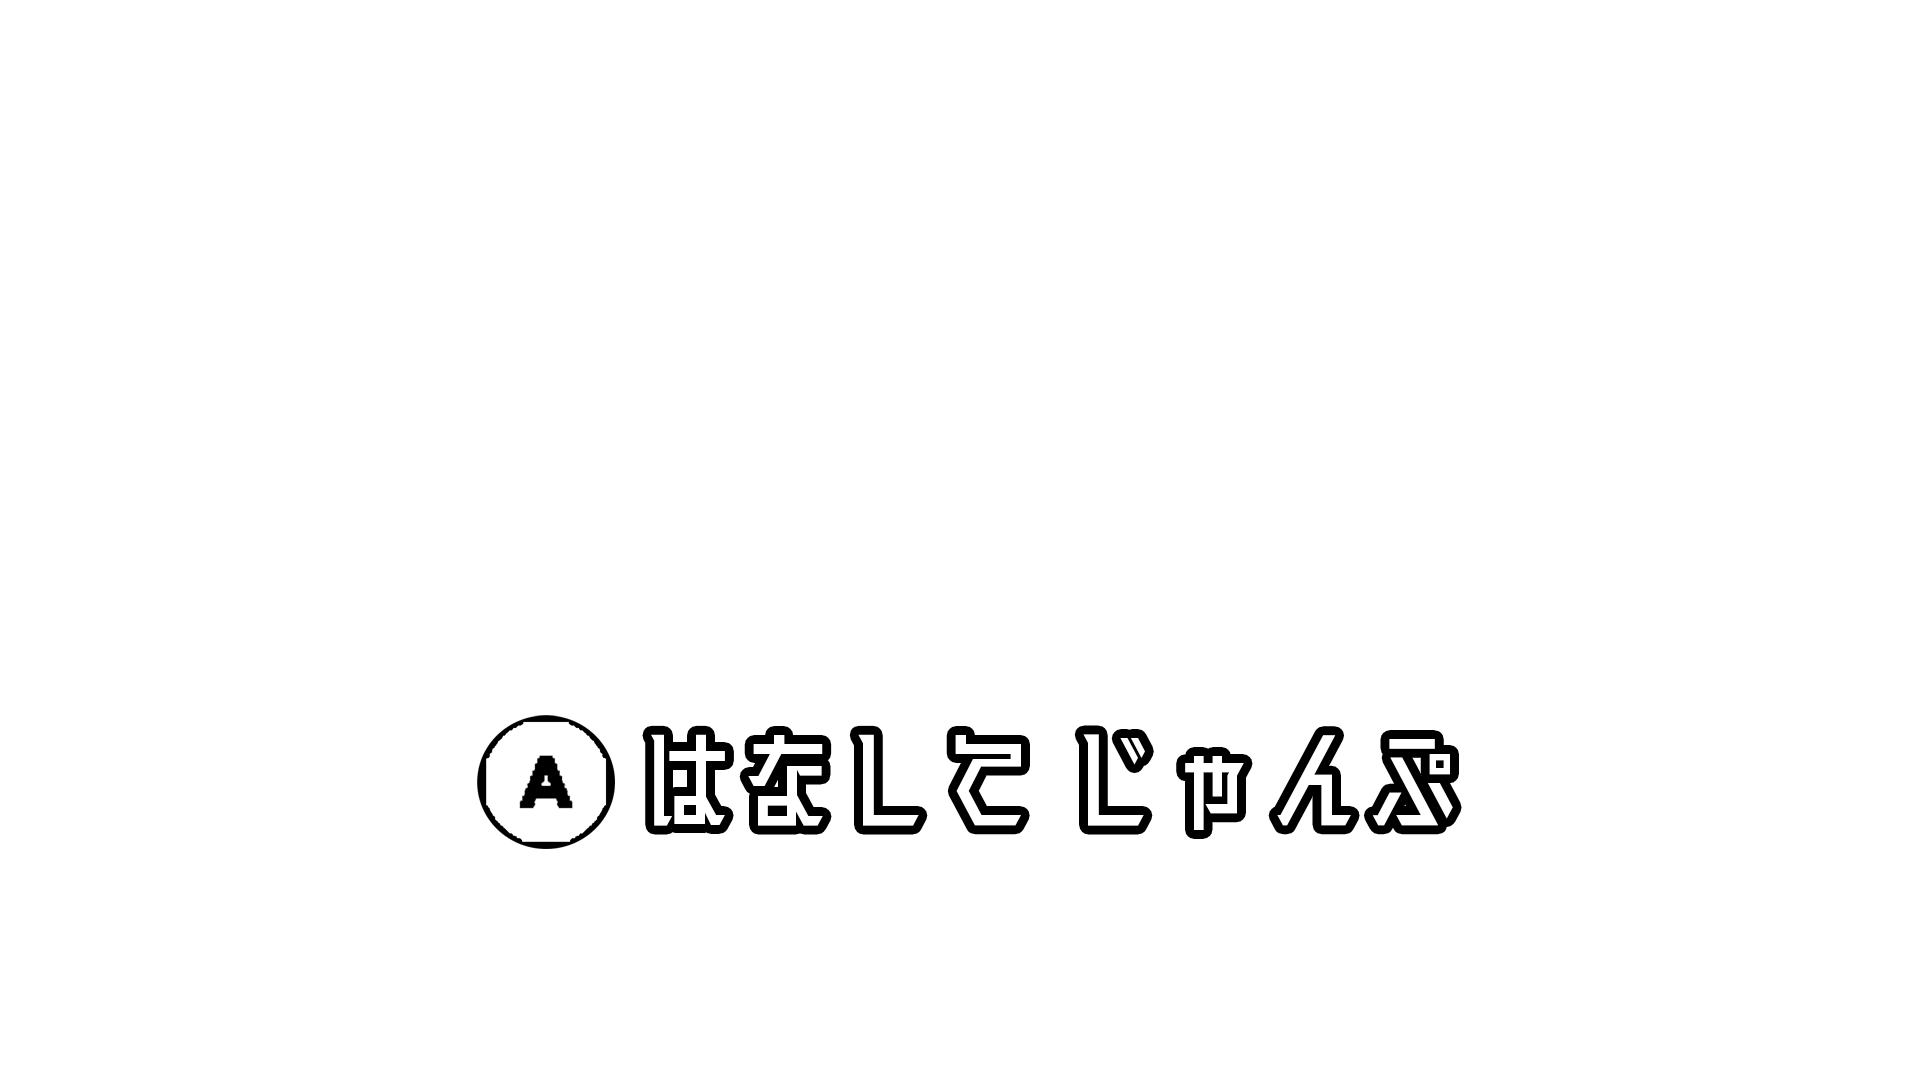
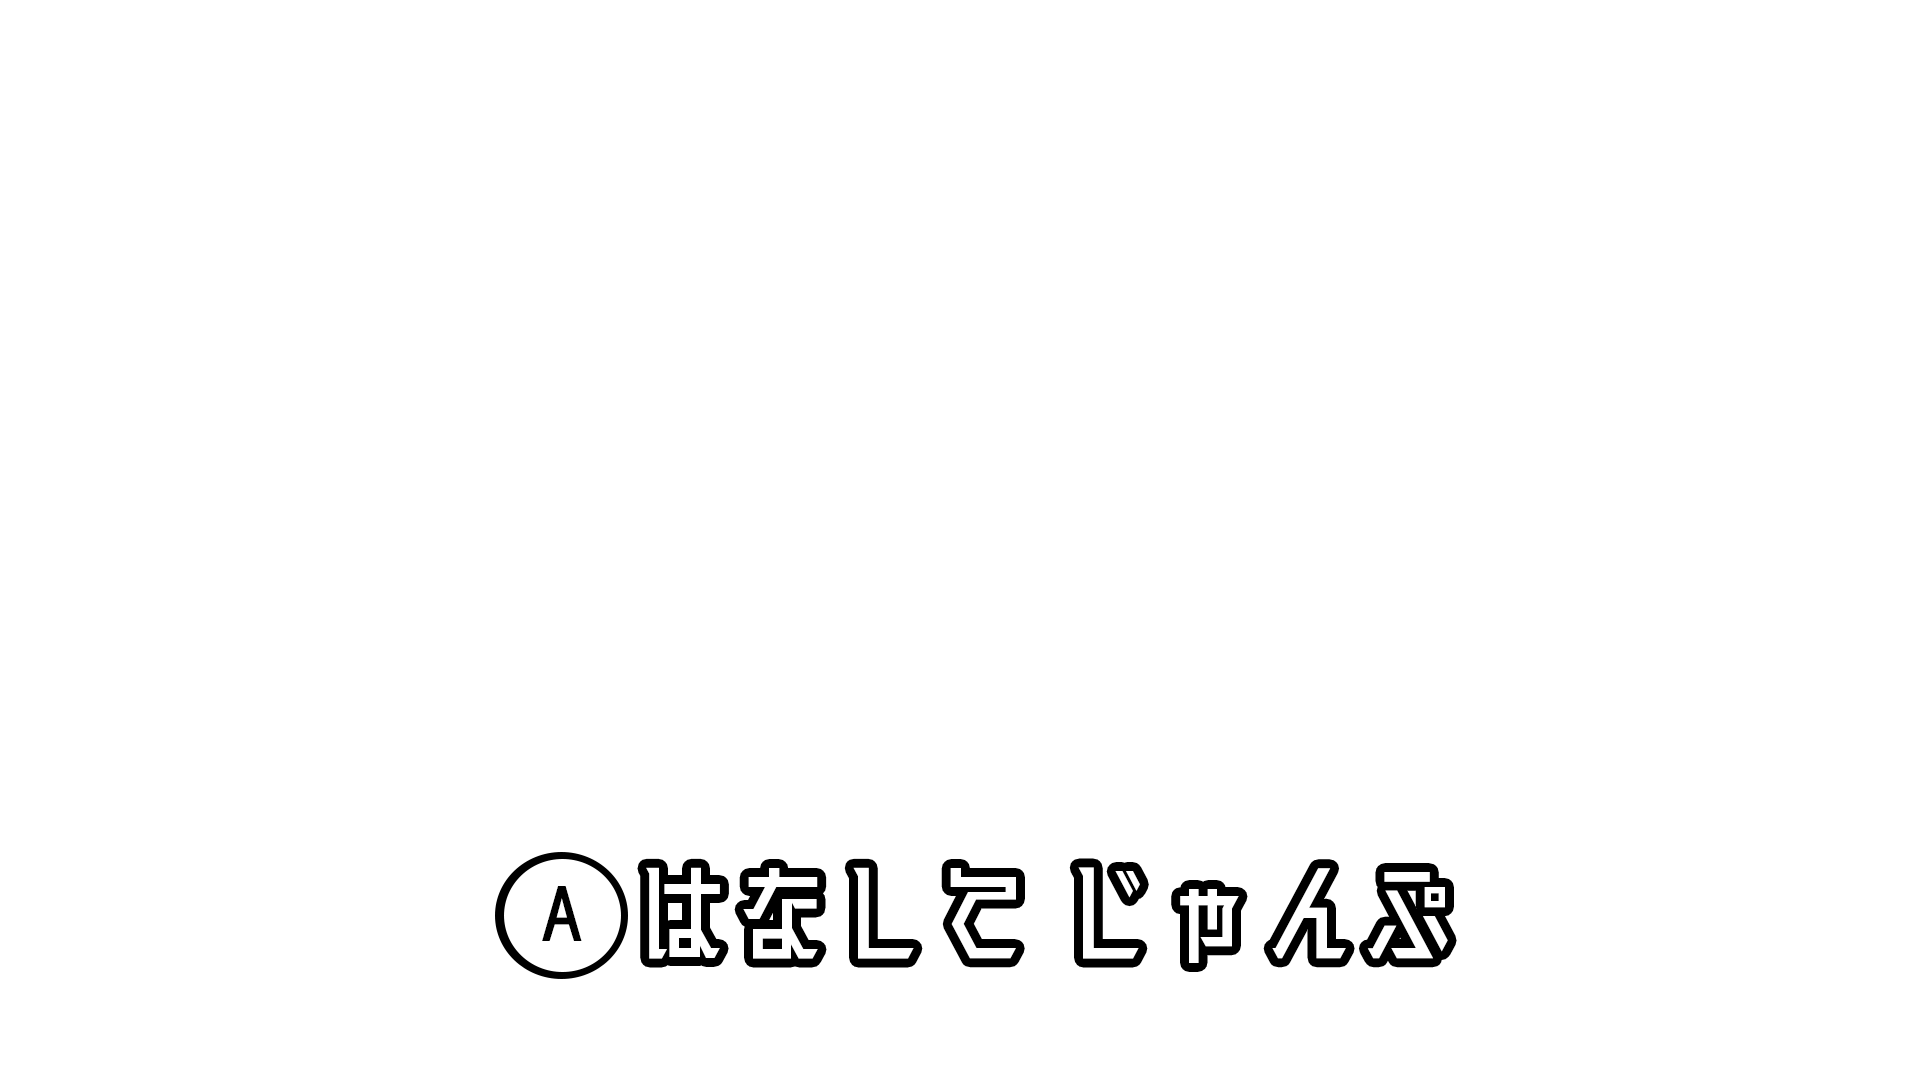
oorui
Add_JumpUI

Changed region(s): [[0.25, 0.6417, 0.7812, 0.9167]]

diff --git a/PullProject/src/GameObject/Character/Player/PlayerHands.h b/PullProject/src/GameObject/Character/Player/PlayerHands.h
@@ -103,6 +103,13 @@ public:
 	 *	@return bool
 	 */
 	inline bool IsLeverCatch() { return catchState == CatchState::LeverCatch; }
+
+	/*
+	 *  柱を掴んでいるか否か
+	 *  @return bools
+	 *  @author oorui
+	 */
+	inline bool IsPillerCatch() { return catchState == CatchState::PillerCatch; }
 	/*
 	 *	ウデ伸ばし中か否か
 	 *	@return bool

diff --git a/PullProject/src/Debug/Scene/MainGameScene.cpp b/PullProject/src/Debug/Scene/MainGameScene.cpp
@@ -231,6 +231,7 @@ void MainGameScene::Render() {
 
 		screen->SetLeverUIVisible(playerHand->IsLeverCatch());
 		screen->SetMisileUIVisible(playerHand->IsEnemyCatch());
+		screen->SetLeverJumpUIVisible(playerHand->IsPillerCatch());
 	}
 	// UI表示
 	m_UIManager.Draw();
